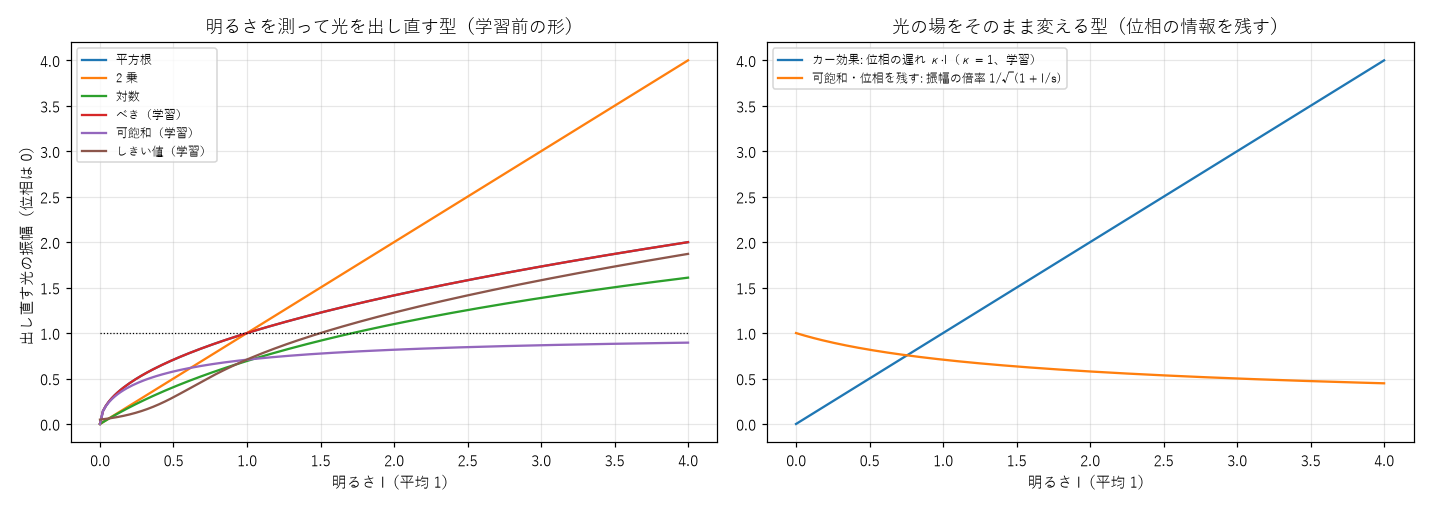
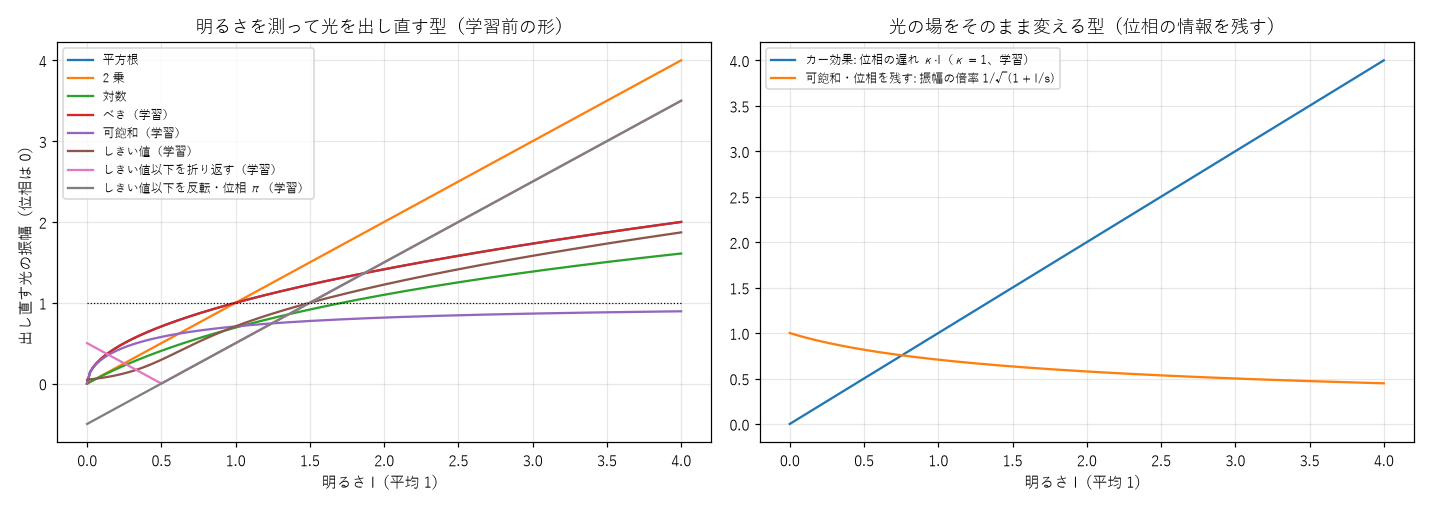
実験73 に非線形 2 通りを追加: しきい値以下を折り返す（fold）・反転して位相 π（signed）（持ち主の案）

diff --git a/nl_parts.py b/nl_parts.py
@@ -11,6 +11,8 @@
   thresh : a = √(softplus(k·(I − t)) / k)（t を学習、k = 8）、位相は 0（しきい値より暗い光を切る）
   kerr   : u' = u · exp(j·κ·I)（κ を学習）。明るさは変えず、明るい所ほど位相を遅らせる（光カー効果・自己位相変調）。位相の情報を捨てない唯一の候補
   ssat   : u' = u / √(1 + I/s)（s を学習）、位相はそのまま（可飽和吸収を、位相を残して）
+  fold   : a = |I − t|（t を学習）、位相は 0。しきい値より暗い分を折り返して明るさに変える（持ち主の案「しきい値以下を反転」、V 字）
+  signed : a = I − t（t を学習）。しきい値より暗い所は振幅が負 = 位相が π（反対向きの光）になる（持ち主の案「反転」のもう 1 つの読み方）
 """
 from __future__ import annotations
 
@@ -21,7 +23,7 @@ import torch.nn.functional as F
 
 import sn2_parts_2d as p2
 
-KINDS = ("none", "sqrt", "square", "log", "power", "sat", "thresh", "kerr", "ssat")
+KINDS = ("none", "sqrt", "square", "log", "power", "sat", "thresh", "kerr", "ssat", "fold", "signed")
 
 
 class NL(torch.nn.Module):
@@ -31,8 +33,8 @@ class NL(torch.nn.Module):
         super().__init__()
         assert kind in KINDS, kind
         self.kind = kind
-        init = {"power": 0.5, "sat": 1.0, "thresh": 0.5, "kerr": 1.0, "ssat": 1.0}.get(kind, 0.0)
-        self.p = torch.nn.Parameter(torch.tensor(float(init)), requires_grad=kind in ("power", "sat", "thresh", "kerr", "ssat"))
+        init = {"power": 0.5, "sat": 1.0, "thresh": 0.5, "kerr": 1.0, "ssat": 1.0, "fold": 0.5, "signed": 0.5}.get(kind, 0.0)
+        self.p = torch.nn.Parameter(torch.tensor(float(init)), requires_grad=kind in ("power", "sat", "thresh", "kerr", "ssat", "fold", "signed"))
 
     def amplitude(self, I):
         """明るさ I（平均 1）→ 出し直す振幅（位相 0 の候補だけ）。図にも使う。"""
@@ -49,6 +51,10 @@ class NL(torch.nn.Module):
             return (I / (1 + I / self.p.abs().clamp(min=1e-3))).clamp(min=0).sqrt()
         if k == "thresh":
             return (F.softplus(8.0 * (I - self.p)) / 8.0).sqrt()
+        if k == "fold":
+            return (I - self.p).abs()
+        if k == "signed":
+            return I - self.p
         raise ValueError(k)
 
     def forward(self, u):

diff --git a/tools/fig_nl.py b/tools/fig_nl.py
@@ -21,13 +21,13 @@ import nl_parts as nl  # noqa: E402
 import sn2_parts_2d as p2  # noqa: E402
 
 NAMES = {"none": "なし", "sqrt": "平方根", "square": "2 乗", "log": "対数", "power": "べき（学習）", "sat": "可飽和（学習）",
-         "thresh": "しきい値（学習）", "kerr": "カー効果（位相、学習）", "ssat": "可飽和・位相を残す（学習）"}
+         "thresh": "しきい値（学習）", "kerr": "カー効果（位相、学習）", "ssat": "可飽和・位相を残す（学習）", "fold": "しきい値以下を折り返す（学習）", "signed": "しきい値以下を反転・位相 π（学習）"}
 
 
 def curves(path):
     I = torch.linspace(0, 4, 200)
     fig, ax = plt.subplots(1, 2, figsize=(13, 4.6))
-    for k in ("sqrt", "square", "log", "power", "sat", "thresh"):
+    for k in ("sqrt", "square", "log", "power", "sat", "thresh", "fold", "signed"):
         ax[0].plot(I, nl.NL(k).amplitude(I).detach(), label=NAMES[k])
     ax[0].plot(I, I.sqrt() * 0 + 1, "k:", lw=0.8)
     ax[0].set_xlabel("明るさ I（平均 1）")
